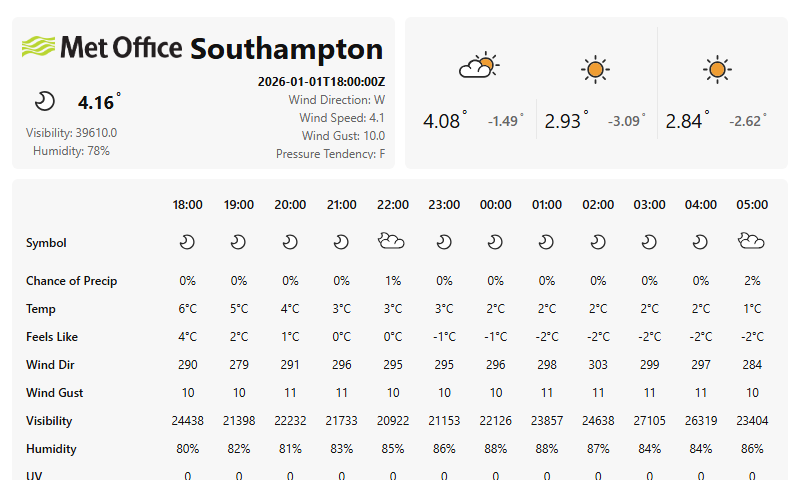
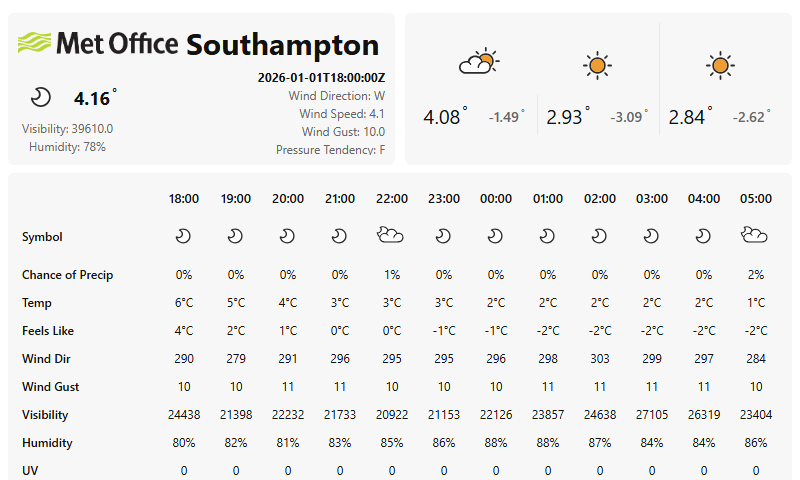
feat: Observation Panel populated

diff --git a/src/plugins/burnsyweather/render/burnsyweather.css b/src/plugins/burnsyweather/render/burnsyweather.css
@@ -56,7 +56,7 @@
   --w:800px;
   --h:480px;
   --gap:10px;
-  --pad:12px;
+  --pad:8px;
   --bg:#ffffff;
   --panel-bg:#f7f7f7;
   --fg:#111;
@@ -77,6 +77,9 @@ html,body{height:100%;margin:0;background:var(--bg);color:var(--fg);font-family:
 
 .row.top{display:grid;grid-template-columns:1fr 1fr;gap:var(--gap)}
 .row.bottom{display:block}
+
+/* nudge bottom row up slightly to avoid clipping */
+.row.bottom{margin-top:-2px}
 
 .panel{background:var(--panel-bg);padding:10px;border-radius:6px;overflow:hidden;display:flex;flex-direction:column}
 .panel-title{font-weight:700;font-size:16px;margin:0}
